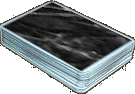
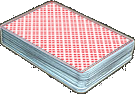
add card deck images and create flip card

diff --git a/style.css b/style.css
@@ -263,18 +263,21 @@ input[type=submit]:hover {
 }
 
 .history {
+    position: relative;
     width: 28%;
     height: 22%;
     position: absolute;
     bottom: 0%;
     right: 0;
     background-color: rgb(200, 98, 50);
-    overflow: hidden;
+    overflow: scroll;
 }
 
 .history>h3 {
+    width: 100%;
     background-color: seagreen;
-    text-align: center;
+    text-align: left;
+    position: fixed;
 
 
 }
@@ -448,6 +451,14 @@ tr:nth-child(even) {
 }
 .panel .front img{
     border: 4px solid rgb(200, 200, 200);
+    
+}
+.panel .back img{
+    background-color: wheat;
+}
+.panel .pad img{
+    width: 60%;
+    height: 80%;
 }
 /* -- make sure to declare a default for every property that you want animated -- */
 /* -- general styles, including Y axis rotation -- */
@@ -493,7 +504,6 @@ tr:nth-child(even) {
     -webkit-transform: rotateY(-180deg);
     -webkit-transform-style: preserve-3d;
     -webkit-backface-visibility: hidden;
- 
     -moz-transform: rotateY(-180deg);
     -moz-transform-style: preserve-3d;
     -moz-backface-visibility: hidden;

diff --git a/display_game.php b/display_game.php
@@ -1,4 +1,5 @@
 <?php
+require 'method.php';
 session_start();
 
 if (!isset($_SESSION['poker'])) {
@@ -12,10 +13,10 @@ if (!isset($_SESSION['poker'])) {
         $amount = $_SESSION['poker']['amount'];
     }
 }
-if($_GET['bool']=='false'){
-    $display_chips_on_screen='none';
-}else{
-    $display_chips_on_screen='block';
+if ($_GET['bool'] == 'false') {
+    $display_chips_on_screen = 'none';
+} else {
+    $display_chips_on_screen = 'block';
 }
 
 
@@ -76,9 +77,9 @@ if($_GET['bool']=='false'){
             <!-- here is draw casino table -->
             <div class="poker-table"></div>
             <!-- here is all casino chips from 5 to 100  -->
-            <div class="poker-chips-box" style="display: <?php echo $display_chips_on_screen;?>">
+            <div class="poker-chips-box" style="display: <?php echo $display_chips_on_screen; ?>">
                 <!-- casino chip rate of 100$ -->
-                <a class="select-chip"  data-value="100"> <img class="chip" src="images/100.png" alt="chip 100"></a>
+                <a class="select-chip" data-value="100"> <img class="chip" src="images/100.png" alt="chip 100"></a>
                 <!-- casino chip rate of 50$ -->
                 <a class="select-chip" data-value="50"><img class="chip" src="images/50.png" alt="chips 50"></a>
                 <!-- casino chip rate of 20$ -->
@@ -105,14 +106,18 @@ if($_GET['bool']=='false'){
         <div class="history">
             <h3>Game history</h3>
             <p class="game-hand">
-                <?php echo $hand_history; ?>
-                <?php 
-                var_dump($_GET['bool']===false);
-                var_dump($display_chips_on_screen);
-                
-                
+                <?php echo $hand_history;
+                $e=new Card_deck();
+                $e->start_the_game();
+                echo'faces/'.$e->deck[6]->getSuit().'_'. $e->deck[6]->getFace();
+             
+                  ?>
+                <?php
+              
+
+
                 ?>
-                
+
             </p>
         </div>
 
@@ -252,17 +257,21 @@ if($_GET['bool']=='false'){
             </script>
         </div>
         <!-- show the table card only the guest atart thr game -->
-        <?php if ($_GET['bool'] == "false") : ?> 
+        <?php if ($_GET['bool'] == "false") : ?>
+            <?php 
+                 $e->new_game($first_card,$second_card,$third_card,$fourth_card,$fifth_card);
+                 var_dump($fourth_card); ?>
+               
             <div class="game-start-shown-card">
                 <div class="hover panel">
                     <div class="front">
                         <div class="pad">
-                            <img src="images/back-card.jpg" width="93px" height="155px" alt="logo front" />
+                            <img src="images/faces/back.png" alt="logo back" />
                         </div>
                     </div>
                     <div class="back">
                         <div class="pad">
-                            <img src="images/<?php echo $first_card ?>.png" alt="logo back" />
+                            <img src="images/<?php echo $first_card ?>.png"  alt="logo front" />
                         </div>
                     </div>
                 </div>
@@ -270,12 +279,13 @@ if($_GET['bool']=='false'){
                 <div class="hover panel">
                     <div class="front">
                         <div class="pad">
-                            <img src="images/back-card.jpg" width="93px" height="155px" alt="logo front" />
+                            <img src="images/faces/back.png" alt="logo back" />
                         </div>
                     </div>
                     <div class="back">
                         <div class="pad">
-                            <img src="images/<?php echo $second_card ?>.png" width="93px" height="155px" alt="logo front" />
+
+                            <img src="images/<?php echo $second_card ?>.png"  alt="logo front" />
                         </div>
                     </div>
                 </div>
@@ -283,12 +293,12 @@ if($_GET['bool']=='false'){
                 <div class="hover panel">
                     <div class="front">
                         <div class="pad">
-                            <img src="images/back-card.jpg" width="93px" height="155px" alt="logo front" />
+                            <img src="images/faces/back.png" alt="logo back" />
                         </div>
                     </div>
                     <div class="back">
                         <div class="pad">
-                            <img src="images/<?php echo $third_card ?>.png" width="93px" height="155px" alt="logo front" />
+                            <img src="images/<?php echo $third_card ?>.png"  alt="logo front" />
                         </div>
                     </div>
                 </div>
@@ -296,12 +306,12 @@ if($_GET['bool']=='false'){
                 <div class="hover panel">
                     <div class="front">
                         <div class="pad">
-                            <img src="images/back-card.jpg" width="93px" height="155px" alt="logo front" />
+                            <img src="images/faces/back.png" alt="logo back" />
                         </div>
                     </div>
                     <div class="back">
                         <div class="pad">
-                            <img src="images/<?php echo $fourth_card ?>.png" width="93px" height="155px" alt="logo front" />
+                            <img src="images/<?php echo $fourth_card ?>.png"  alt="logo front" />
                         </div>
                     </div>
                 </div>
@@ -309,17 +319,18 @@ if($_GET['bool']=='false'){
                 <div class="hover panel">
                     <div class="front">
                         <div class="pad">
-                            <img src="images/back-card.jpg" width="93px" height="155px" alt="logo front" />
+                            <img src="images/faces/back.png" alt="logo back" />
                         </div>
                     </div>
                     <div class="back">
                         <div class="pad">
-                            <img src="images/<?php echo $fifth_card ?>.png" width="93px" height="155px" alt="logo front" />
+
+                            <img src="images/<?php echo $fifth_card ?>.png" alt="logo front" />
                         </div>
                     </div>
                 </div>
             </div>
-        <!-- <?php endif; ?> -->
+            <!-- <?php endif; ?> -->
     </section>
 </body>
 

diff --git a/method.php b/method.php
@@ -1,17 +1,57 @@
 <?php
 
-class Card{
+
+class Card
+{
     private $face;
     private $suit;
-    function __construct($face,$suit){
-    $this->face=$face;   
-    $this->suit=$suit;        
+
+    function __construct($face, $suit)
+    {
+        $this->setCard($face, $suit);
+    }
+
+    function setCard($face, $suit)
+    {
+        $this->face = $face;
+        $this->suit = $suit;
+    }
+    function getFace()
+    {
+        return $this->face;
+    }
+    function getSuit()
+    {
+        return $this->suit;
     }
 }
 
-// class CardDeck{
-//     $deck =new Card();
-// }
+class Card_deck
+{
+    var  $deck = array();
+    const NUMBER_OF_CARD = 52;
+    const FACE = array(0 => 'A', 1 => 2, 2 => 3, 3 => 4, 4 => 5, 5 => 6, 6 => 7, 7 => 8, 8 => 9, 9 => 10, 10 => 'J', 11 => 'Q', 12 => 'K');
+    const SUIT = array(0 => 'heart', 1 => 'spade', 2 => 'club', 3 => 'diamond');
 
 
-?>
+    function start_the_game()
+    {
+
+        for ($i = 0; $i < self::NUMBER_OF_CARD; $i++) {
+           $this->deck[$i] = new Card(self::FACE[$i % 13], self::SUIT[$i / 13]);
+        }
+        
+    }
+  
+    function new_game(&$first,&$second,&$third,&$fourth,&$fifth){
+        shuffle($this->deck);
+        
+        $first='faces/'.$this->deck[0]->getSuit().'_'. $this->deck[0]->getFace();
+        $second='faces/'.$this->deck[1]->getSuit().'_'. $this->deck[1]->getFace();
+        $third='faces/'.$this->deck[2]->getSuit().'_'. $this->deck[2]->getFace();
+        $fourth='faces/'.$this->deck[3]->getSuit().'_'. $this->deck[3]->getFace();
+        $fifth='faces/'.$this->deck[4]->getSuit().'_'. $this->deck[4]->getFace();
+        
+      
+    }
+}
